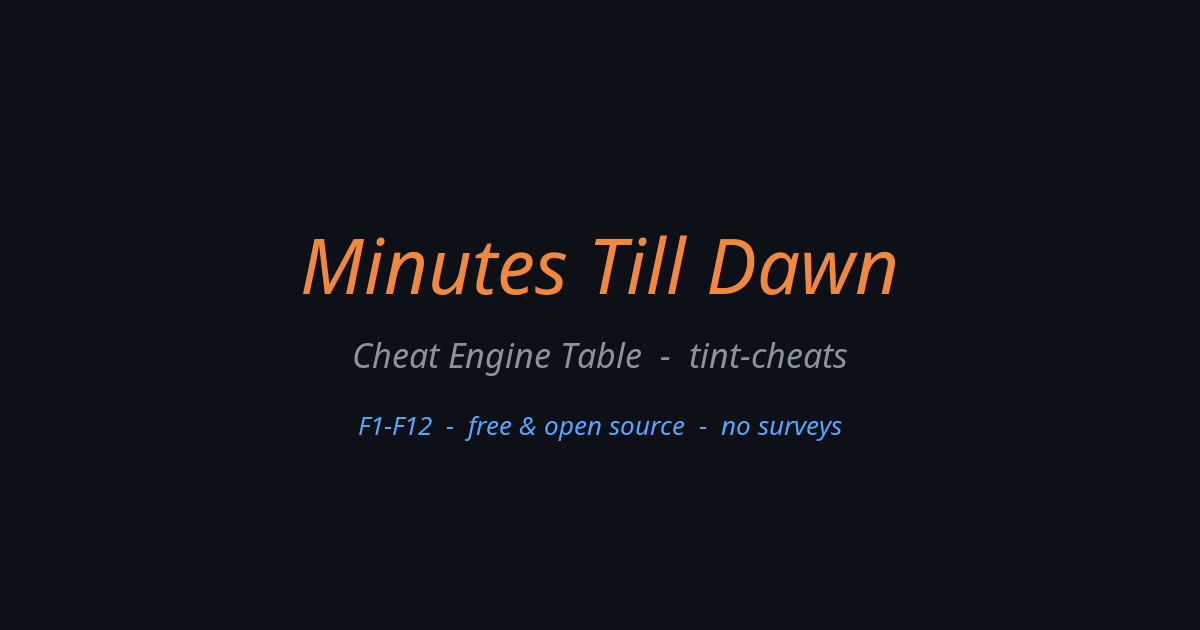
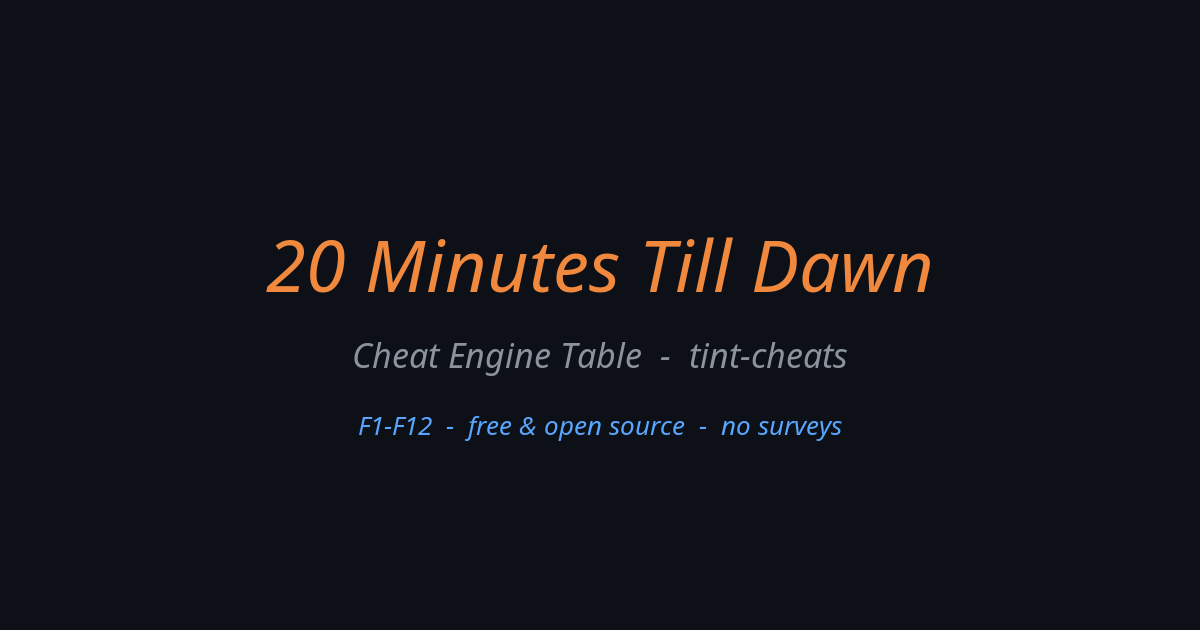
20 Minutes Till Dawn: real game info, screenshots, trailer, correct name
Corrected the game name (it is '20 Minutes Till Dawn', appid 1966900),
added the official Steam short description, four real screenshots, and a
trailer link to the Steam page. Regenerated the cover with the right title
and fixed body references.

Changed region(s): [[0.2158, 0.3619, 0.7708, 0.4825]]

diff --git a/tables/minutes-till-dawn/index.md b/tables/minutes-till-dawn/index.md
@@ -1,6 +1,6 @@
 ---
-title: "Minutes Till Dawn Cheat Engine Table"
-game: "Minutes Till Dawn"
+title: "20 Minutes Till Dawn Cheat Engine Table"
+game: "20 Minutes Till Dawn"
 slug: "minutes-till-dawn"
 status: working
 table_version: "1.7.0"
@@ -55,15 +55,21 @@ cheats:
     description: "Turns every active script back off."
 files:
   - name: "minutes-till-dawn.CT"
-    label: "Minutes Till Dawn Trainer (v1.7)"
+    label: "20 Minutes Till Dawn Trainer (v1.7)"
 cover: ./media/cover.png
-game_description: "Minutes Till Dawn is a survival roguelite shooter where you fend off endless swarms of monsters until dawn, picking powerful upgrades between waves. Built by flanne and published by Erabit Studios."
-description: "Free, open-source Cheat Engine table for Minutes Till Dawn: XP boost, ammo lock, unlimited souls, freeze timer, rapid fire, one-hit kills and more."
+game_description: "20 Minutes Till Dawn is a survival roguelite where endless hordes of creatures lurk from the dark. Craft overpowering builds and eradicate waves of Lovecraftian nightmares. Will you survive the night? By flanne (published by flanne / Erabit)."
+trailer: "https://store.steampowered.com/app/1966900/20_Minutes_Till_Dawn/"
+screenshots:
+  - ./media/screenshot-1.jpg
+  - ./media/screenshot-2.jpg
+  - ./media/screenshot-3.jpg
+  - ./media/screenshot-4.jpg
+description: "Free, open-source Cheat Engine table for 20 Minutes Till Dawn: XP boost, ammo lock, unlimited souls, freeze timer, rapid fire, one-hit kills and more."
 ---
 
 ## Overview
 
-A Cheat Engine table for **Minutes Till Dawn**, the survival roguelite shooter.
+A Cheat Engine table for **20 Minutes Till Dawn**, the survival roguelite shooter.
 Everything is hotkey driven (F1 to F12), so you can toggle effects mid-run
 without alt-tabbing. The table is built for the single-player game only.
 
@@ -80,7 +86,7 @@ Cheat Engine if they clash with the game.
 ## Requirements
 
 - [Cheat Engine](https://www.cheatengine.org/) 7.5 or newer.
-- Minutes Till Dawn on Steam (Windows).
+- 20 Minutes Till Dawn on Steam (Windows).
 - Single-player session. Do not use this in any online or competitive context.
 
 ## Installation & Usage
@@ -89,7 +95,7 @@ Cheat Engine if they clash with the game.
 2. Download `minutes-till-dawn.CT` from the download box on this page.
 3. Verify the SHA-256 against the value shown here (optional but recommended),
    or check the VirusTotal link.
-4. Launch Minutes Till Dawn.
+4. Launch 20 Minutes Till Dawn.
 5. Open the `.CT` file in Cheat Engine (File, Open, or double-click it).
 6. Click the glowing computer icon in Cheat Engine and select the game process.
 7. Tick the boxes for the cheats you want, or use the F1 to F12 hotkeys in game.
@@ -98,9 +104,9 @@ Cheat Engine if they clash with the game.
 ## Compatibility
 
 The version matrix above is generated from this table's metadata. The trainer
-targets the current Steam build of Minutes Till Dawn. If a game update moves
+targets the current Steam build of 20 Minutes Till Dawn. If a game update moves
 things around and a function stops working, please
-[open an issue](https://github.com/thereisnotime/tint-cheats/issues/new/choose)
+[open an issue](https://github.com/thereisnotime/tint-cheats/issues/new?template=report-issue.yml)
 with your game version and which function broke.
 
 ## Known Issues
@@ -120,5 +126,5 @@ with your game version and which function broke.
 ## Credits
 
 - Table by TINT (thereisnotime).
-- Minutes Till Dawn by flanne / Erabit Studios. This table is unofficial and not
+- 20 Minutes Till Dawn by flanne / Erabit Studios. This table is unofficial and not
   affiliated with the developers or publisher.